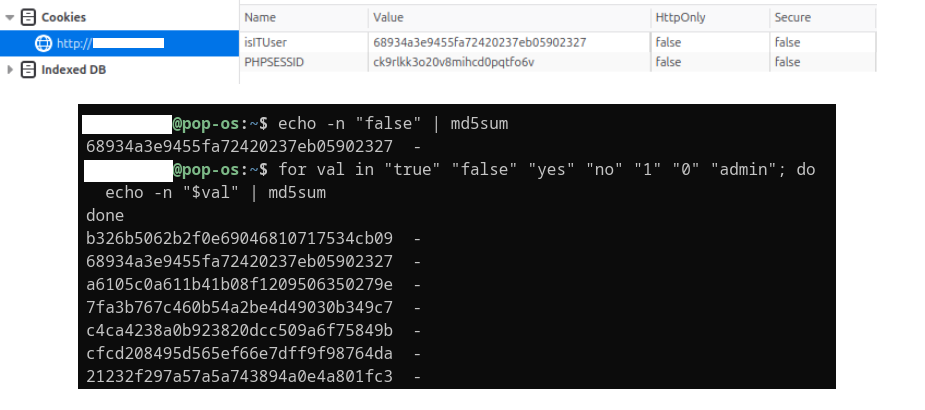
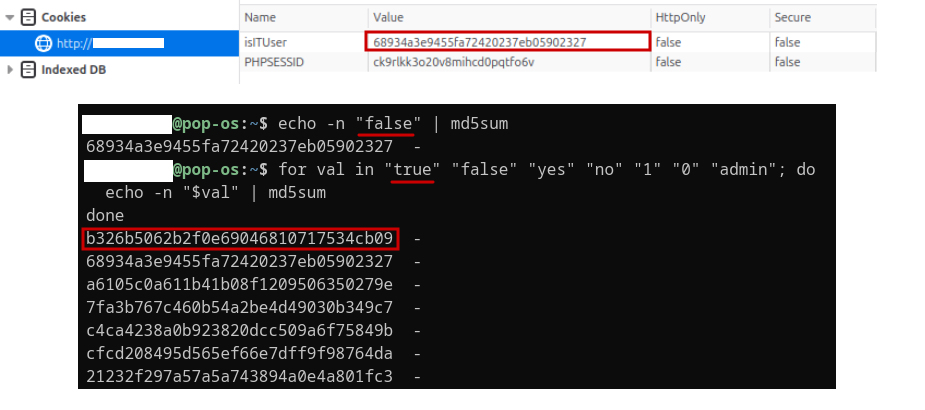
support ctf - refined &  5-cookie-inspection - edited!

diff --git a/writeups/tryhackme/support.md b/writeups/tryhackme/support.md
@@ -87,10 +87,10 @@ done
 ![Cookie Inspection](screenshots/support/5-cookie-inspection.png)
 
 **Result:**
-
+```
 md5("false") = 68934a3e9455fa72420237eb0590232 <- default/unauthenticated value
 md5("true") = b326b5062b2f0e69046810717534cb09 <- target value
-
+```
 **Exploitation:** The application set `isITUser` to `md5("false")` by default for a regular logged-in user. Forging the cookie value to `b326b5062b2f0e69046810717534cb09` (`md5("true")`) unlocked the **IT Admin Panel**.
 
 ![Forged Cookie](screenshots/support/6-forged-cookie.png)
@@ -179,16 +179,16 @@ hydra -l specialadmin@support.thm -P mutated.txt \
 As admin, a new Date/Time feature appeared in the footer, sending POST requests with a `sys` parameter.
 
 **Initial Test:**
-
+```
 sys=date; pwd
-
+```
 **Response:** `/var/www/html` — command injection confirmed.
 ![Command Injection Test](screenshots/support/15-command-injection-test.png)
 
 **Flag Retrieval:**
-
+```
 sys=date; cat /home/ubuntu/user.txt
-
+```
 **Flag 2 Captured!** 🚩 `THM{GOT_THE_FLAG001}`
 ![Flag 2](screenshots/support/16-flag2.png)
 
